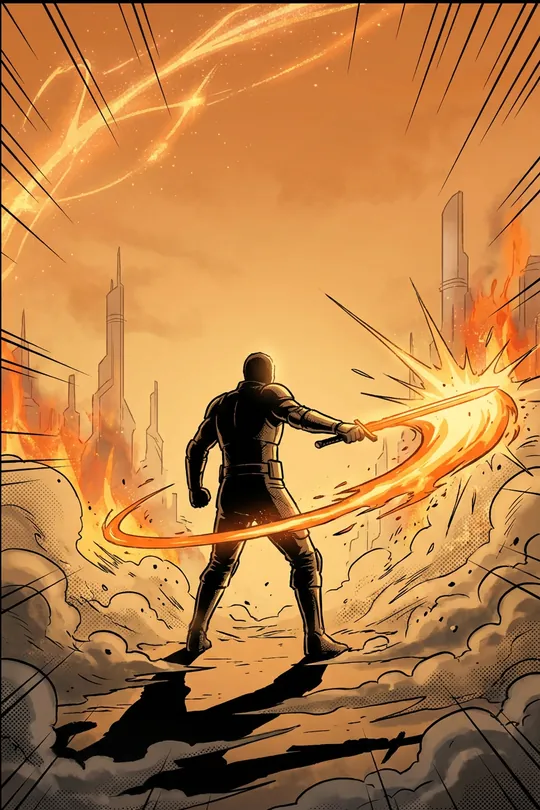
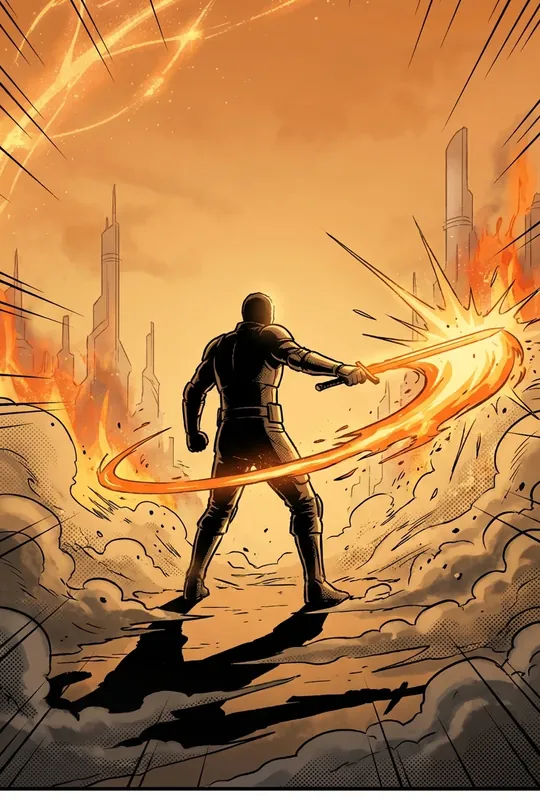
Carte azione: ricentrate Precise Slash e Overpowering; anteprima più alta
Claude-Session: https://claude.ai/code/session_01GbypLYtCXiAx4W3ZEhaWi1

diff --git a/strumenti/gemini/impagina.js b/strumenti/gemini/impagina.js
@@ -6,7 +6,7 @@ const { chromium } = require('playwright');
 const R = require('path').resolve(__dirname, '..', '..');
 (async () => {
   const b = await chromium.launch();
-  const p = await b.newPage({ viewport: { width: 1700, height: 1000 }, deviceScaleFactor: +(process.env.SCALA || 2) });
+  const p = await b.newPage({ viewport: { width: 1700, height: 2600 }, deviceScaleFactor: +(process.env.SCALA || 2) });
   await p.goto('file://' + R + '/index.html');
   await p.waitForTimeout(1500);
   const out = process.argv[2], ids = process.argv.slice(3), linee = !!process.env.LINEE;
